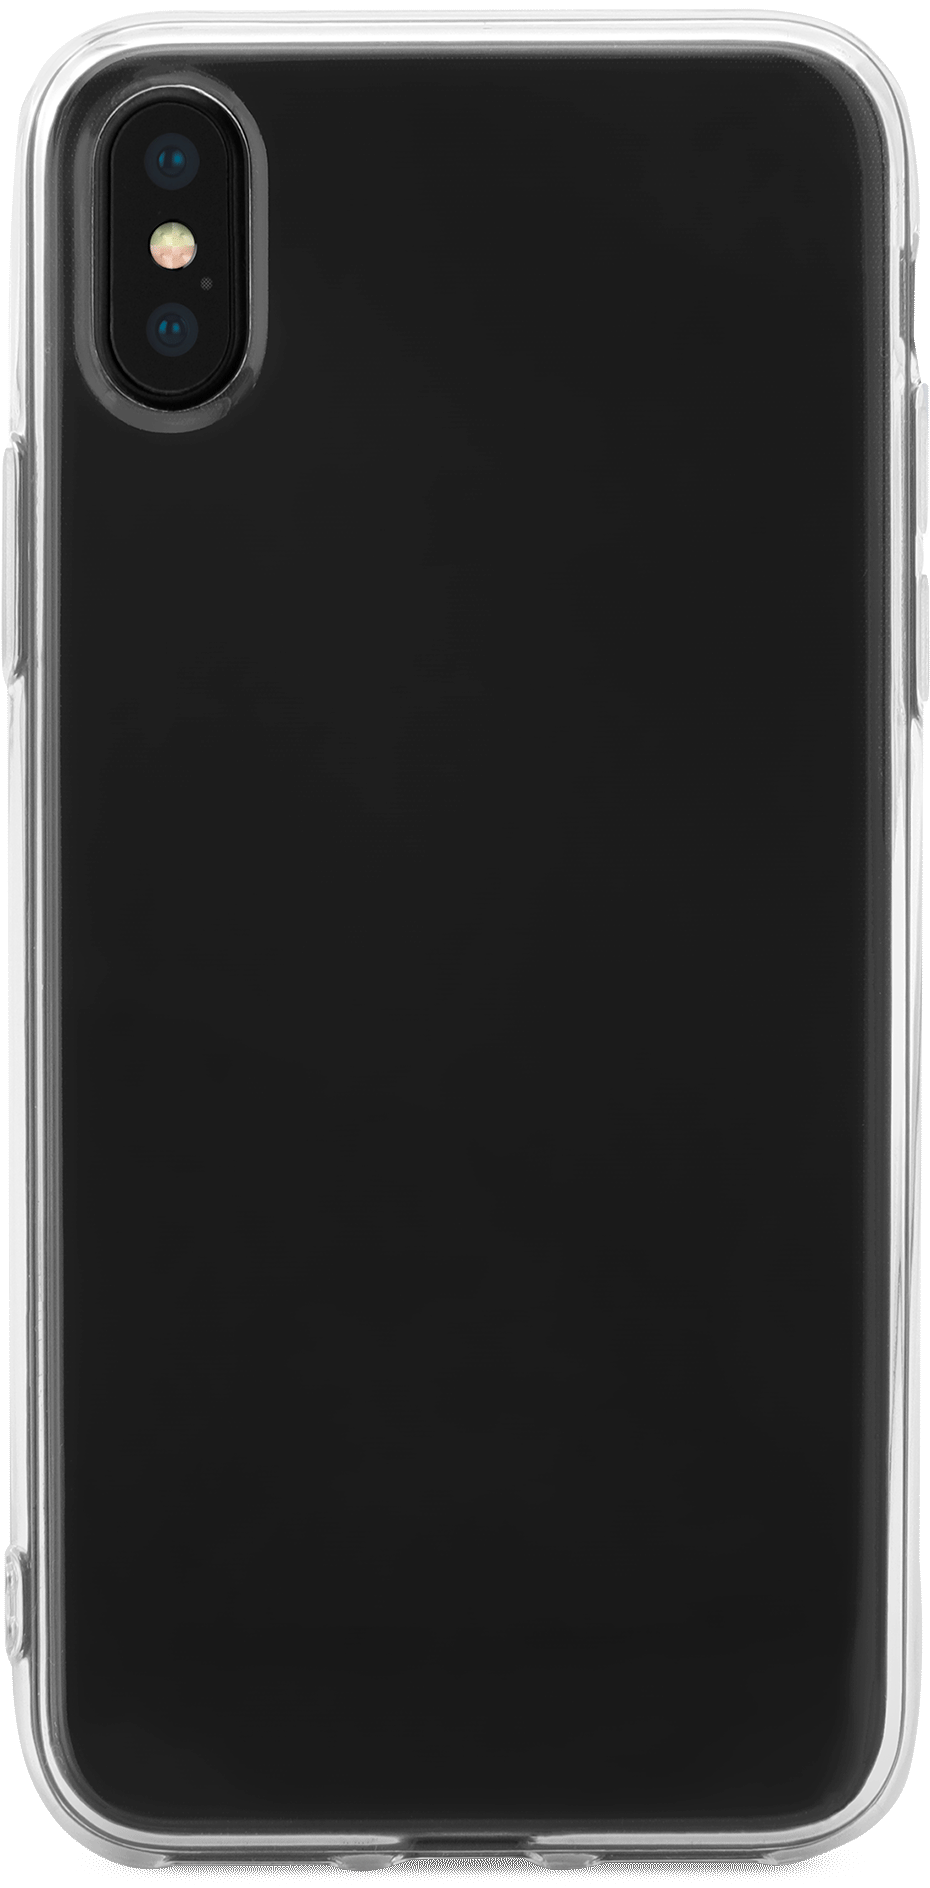
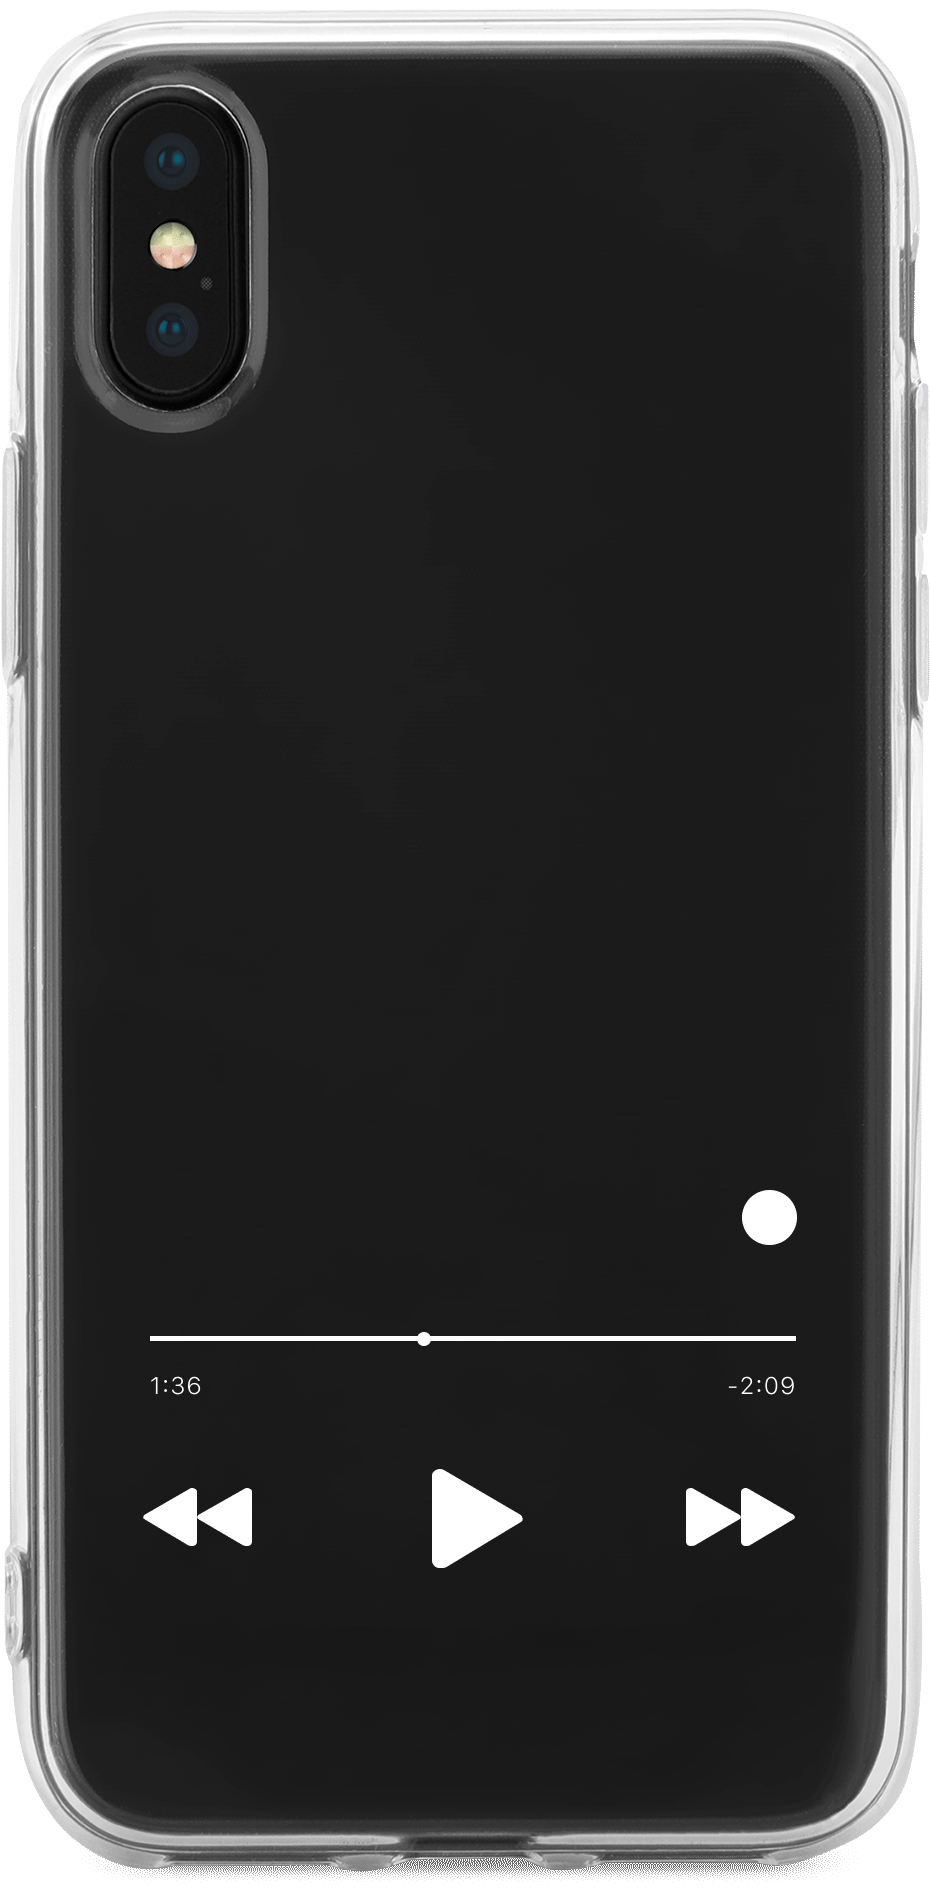
fixed player

diff --git a/pages/music/index.vue b/pages/music/index.vue
@@ -116,7 +116,7 @@ export default {
         .songfield{
             position: absolute;
             font-family: 'SFU-Medium';
-            bottom: 190px;
+            bottom: 195px;
             font-size: 9px;
             left: 45px;
             font-weight: 600;
@@ -131,7 +131,7 @@ export default {
             position: absolute;
             font-family: 'SFU-Regular';
             color: white;
-            bottom: 180px;
+            bottom: 185px;
             left: 45px;
             font-size: 10px;
             right: 40px;
